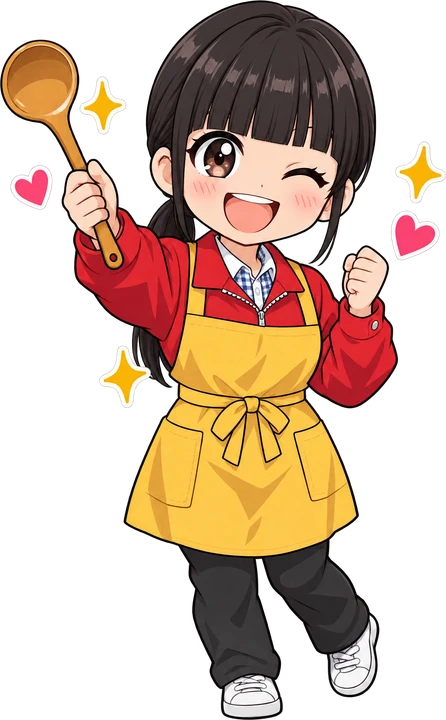
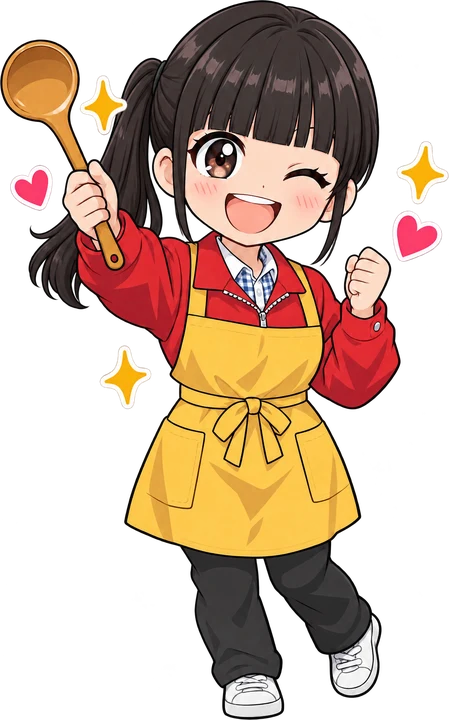
エリちゃんの髪型をポニーテールに変更
Claude-Session: https://claude.ai/code/session_01GicF4CNN6PYv9GYgroBVkR

diff --git a/app/page.tsx b/app/page.tsx
@@ -219,7 +219,7 @@ export default async function Home() {
     <div className="wrap grid">
       <div className="rv">
         <div className="eri-hd">
-          <img className="eri-chara" src="/img/eri.webp" alt="エリちゃんのイラスト" width={446} height={720} loading="lazy" />
+          <img className="eri-chara" src="/img/eri.webp" alt="エリちゃんのイラスト" width={449} height={720} loading="lazy" />
           <div>
             <div className="eyebrow">ERI&apos;S RECIPE OF THE DAY</div>
             <h2 style={{fontSize: 'clamp(28px,3.6vw,46px)', lineHeight: '1.45', letterSpacing: '.04em', marginTop: '10px'}}>{lines(c("dinner.heading"))}</h2>
